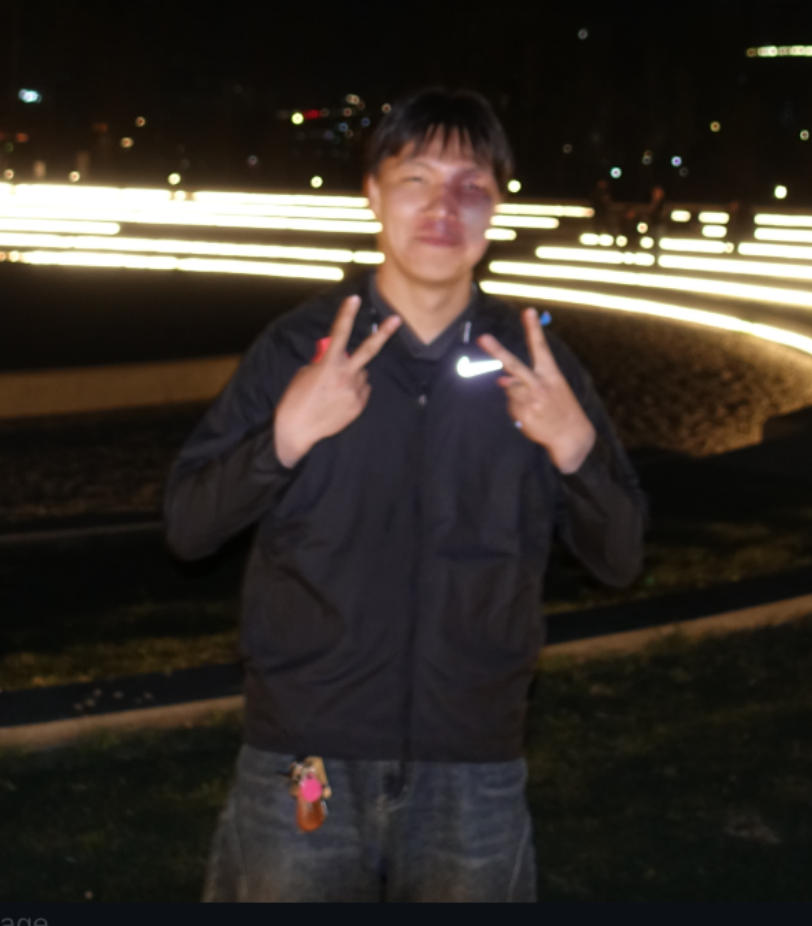
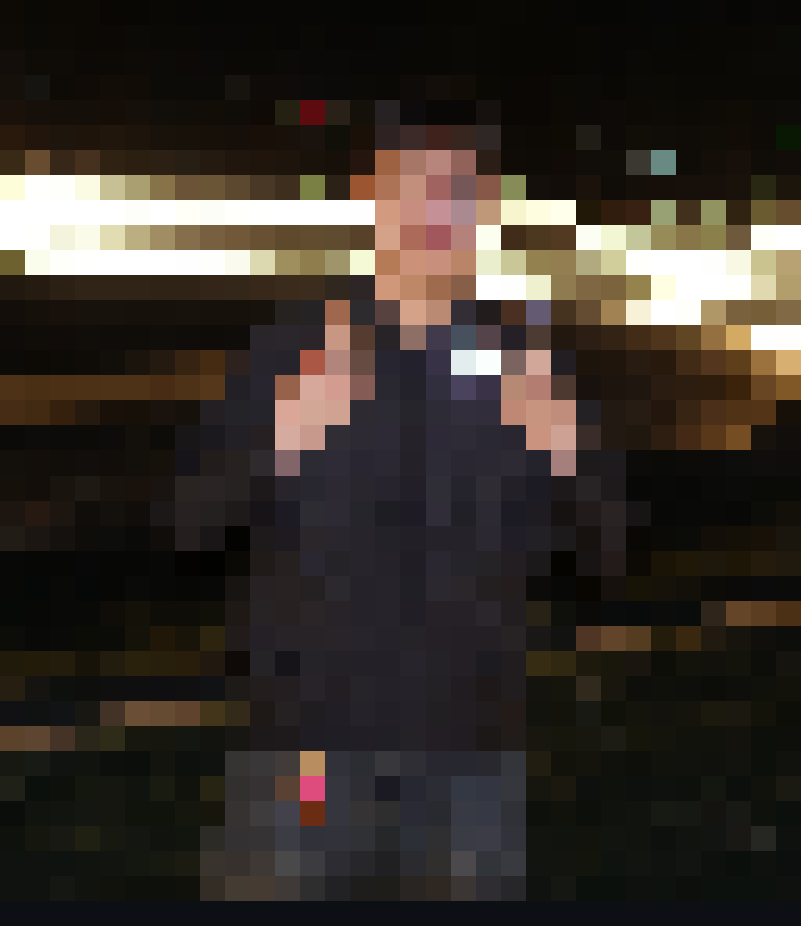
prod

diff --git a/components/sections/hero.tsx b/components/sections/hero.tsx
@@ -11,7 +11,7 @@ export function Hero() {
 				<HeroText />
 				<div className="relative mx-auto aspect-[801/926] w-full max-w-sm overflow-hidden rounded-2xl md:mx-0 md:justify-self-end">
 					<Image
-						src="/lemon-pixelated.png"
+						src="/lemon.png"
 						alt="Pixelated portrait of Temuulen"
 						fill
 						priority
